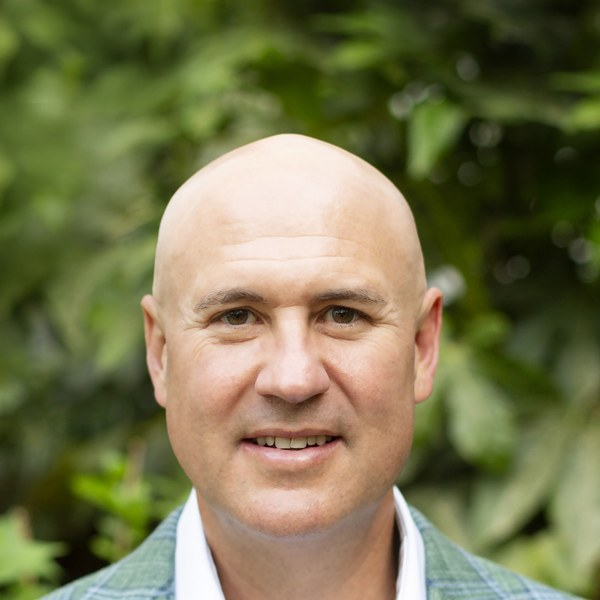
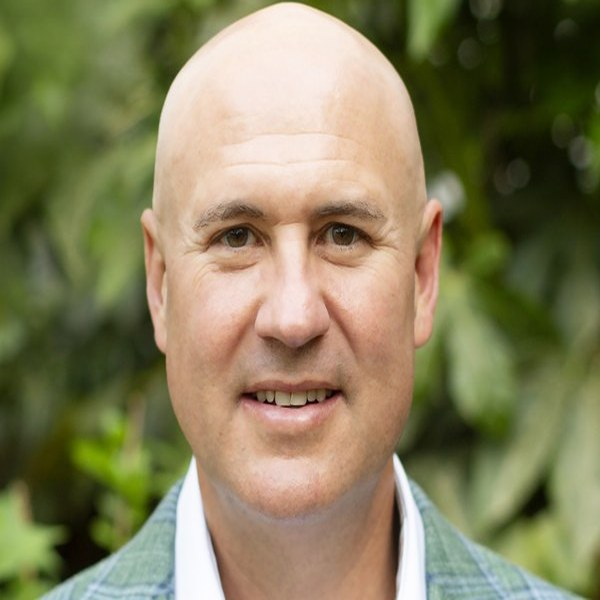
fix(assets): self-host hero buildings img; re-crop Michael headshot tighter
- Download Unsplash skyscrapers locally to /hero-buildings.jpg (354KB) so the hero
  doesn't depend on a third-party CDN that can rate-limit or change URLs
- Re-crop michael-hunter.jpg by trimming 22% off the top — the 'too much green
  above his head' problem can't be fully fixed with objectPosition alone in a
  circular 144px frame. Permanent crop, removes the band-aid style attribute
- Remove generated hero-bg.jpg gradient (replaced by local building photo)

diff --git a/src/pages/About/About.jsx b/src/pages/About/About.jsx
@@ -84,7 +84,7 @@ function Banner({ eyebrow, heading }) {
       className="relative isolate flex min-h-[42vh] items-center text-white"
       style={{
         backgroundImage:
-          "linear-gradient(rgba(0,48,87,0.55), rgba(0,48,87,0.78)), url('/hero-bg.jpg')",
+          "linear-gradient(rgba(0,48,87,0.55), rgba(0,48,87,0.78)), url('/hero-buildings.jpg')",
         backgroundSize: 'cover',
         backgroundPosition: 'center',
       }}
@@ -219,8 +219,7 @@ export default function About() {
                       width={144}
                       height={144}
                       loading="lazy"
-                      className="mb-5 size-36 rounded-full border-[3px] border-[var(--color-teal)] object-cover shadow-md"
-                      style={{ objectPosition: '50% 18%' }}
+                      className="mb-5 size-36 rounded-full border-[3px] border-[var(--color-teal)] object-cover object-center shadow-md"
                     />
                   ) : (
                     <div className="mb-5 flex size-36 items-center justify-center rounded-full border-[3px] border-[var(--color-teal)] bg-[var(--color-bg)] text-3xl font-extrabold text-[var(--color-navy)]">

diff --git a/src/pages/Contact/Contact.jsx b/src/pages/Contact/Contact.jsx
@@ -101,7 +101,7 @@ export default function Contact() {
         className="relative isolate flex min-h-[42vh] items-center text-white"
         style={{
           backgroundImage:
-            "linear-gradient(rgba(0,48,87,0.55), rgba(0,48,87,0.78)), url('/hero-bg.jpg')",
+            "linear-gradient(rgba(0,48,87,0.55), rgba(0,48,87,0.78)), url('/hero-buildings.jpg')",
           backgroundSize: 'cover',
           backgroundPosition: 'center',
         }}

diff --git a/src/pages/Home/Home.jsx b/src/pages/Home/Home.jsx
@@ -113,7 +113,7 @@ export default function Home() {
         className="relative isolate flex min-h-[78vh] items-center text-white"
         style={{
           backgroundImage:
-            "linear-gradient(rgba(0,48,87,0.55), rgba(0,48,87,0.78)), url('/hero-bg.jpg')",
+            "linear-gradient(rgba(0,48,87,0.55), rgba(0,48,87,0.78)), url('/hero-buildings.jpg')",
           backgroundSize: 'cover',
           backgroundPosition: 'center',
         }}
